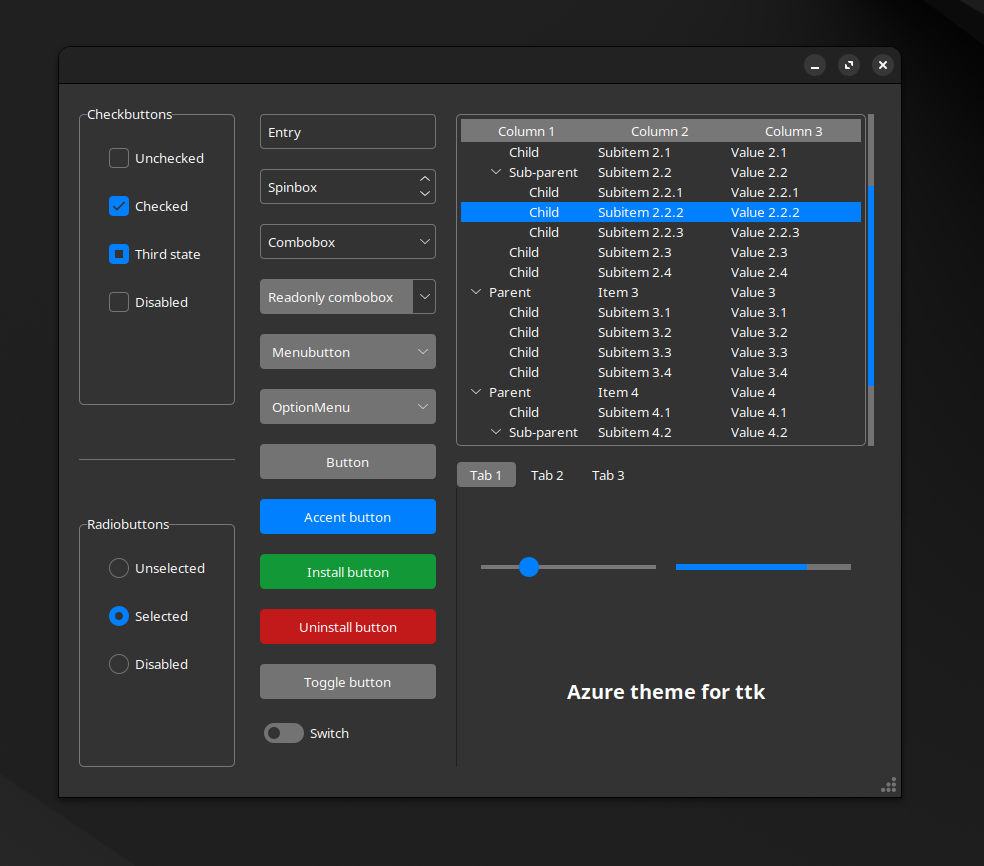
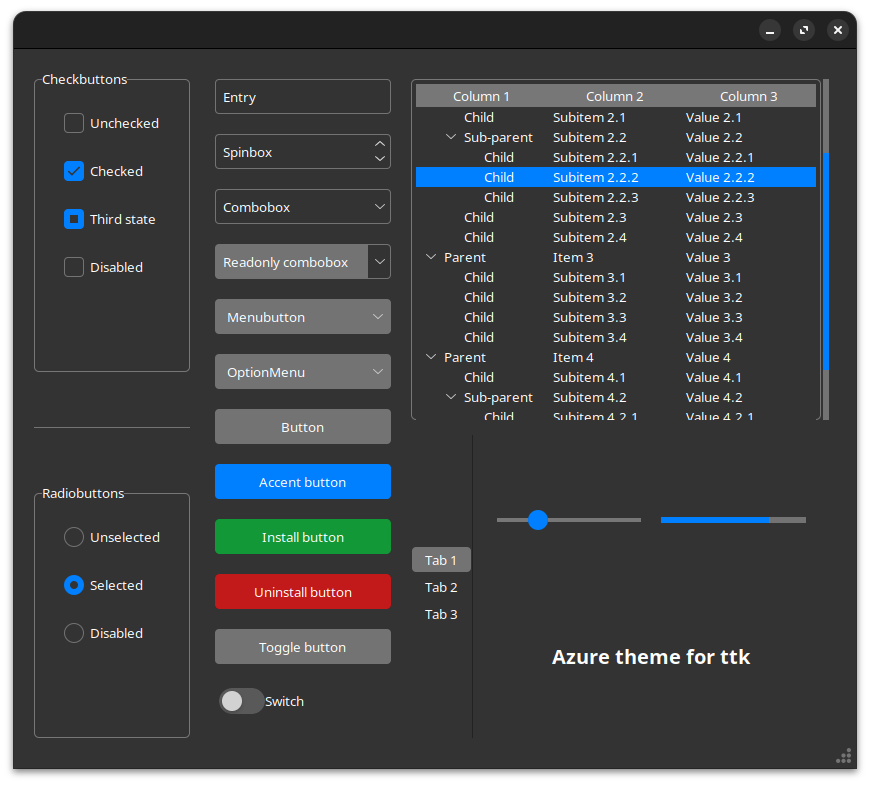
Changed: rect-base style

Changed region(s): [[0.0, 0.0, 1.0, 1.0], [0.5586, 0.7949, 0.869, 0.8561], [0.0931, 0.3363, 0.1862, 0.3669]]

diff --git a/example.py b/example.py
@@ -252,6 +252,15 @@ class App(ttk.Frame):
         self.notebook = ttk.Notebook(self.pane_2)
         self.notebook.pack(fill="both", expand=True)
 
+        global noteStyler
+        noteStyler = ttk.Style(self)
+        #noteStyler.theme_use('yaru')
+        noteStyler.configure(
+            "TNotebook",
+            borderwidth=0,
+            tabposition="w",
+            highlightthickness=0,
+        )
         # Tab #1
         self.tab_1 = ttk.Frame(self.notebook)
         for index in [0, 1]:
